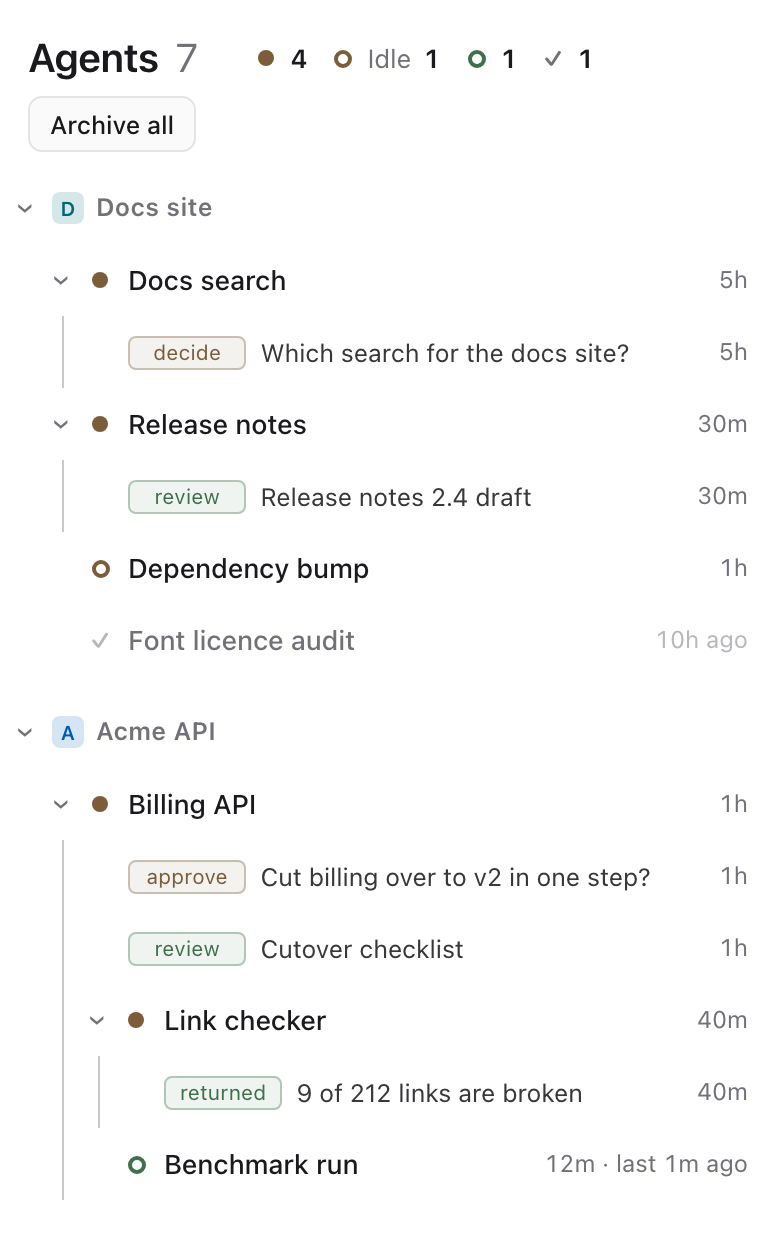
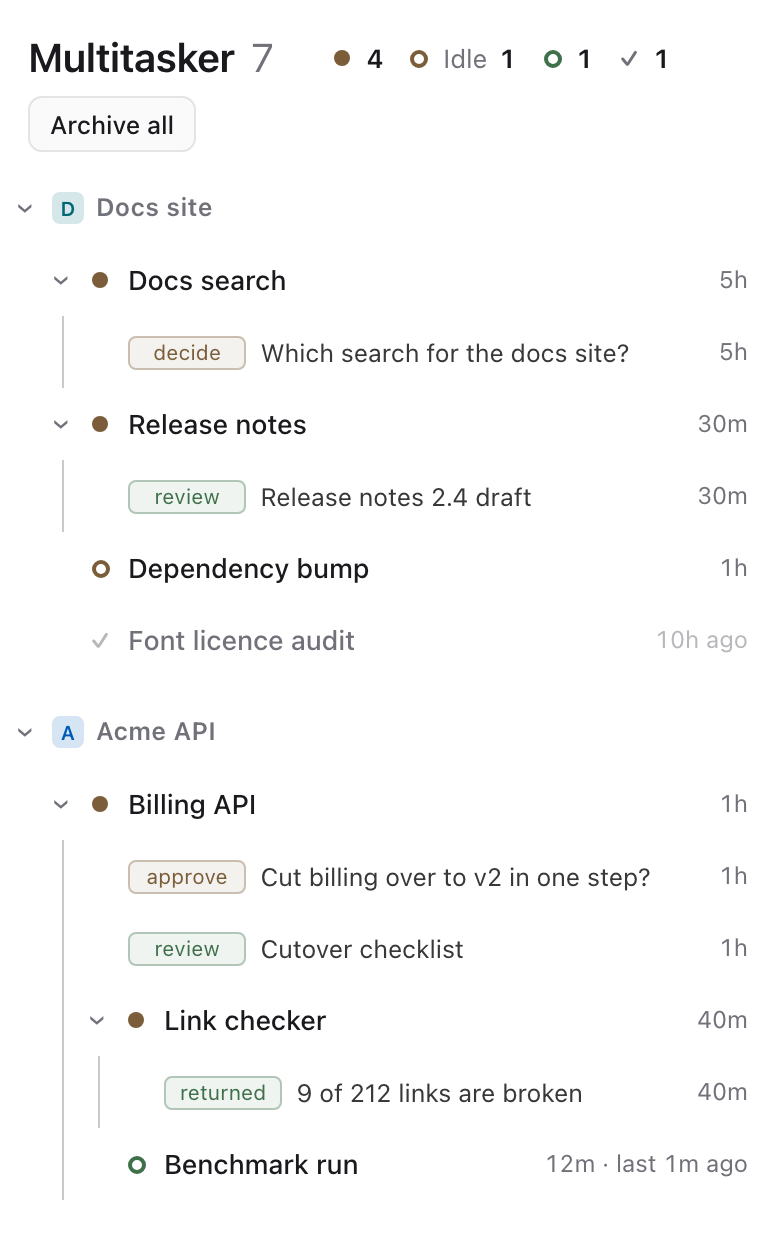
Say session messages are English; fix stale comments and labels; retake screenshots with the Multitasker header

Changed region(s): [[0.0308, 0.0306, 0.4, 0.0613], [0.4308, 0.0306, 0.7385, 0.0613], [0.8308, 0.0306, 0.8615, 0.0613]]

diff --git a/paseo-plugin/client/agents-screen.tsx b/paseo-plugin/client/agents-screen.tsx
@@ -1,4 +1,4 @@
-// The Agents screen and its sidebar row: the one entry to the queue's cards and the agents they come
+// The Multitasker screen and its sidebar row: the one entry to the queue's cards and the agents they come
 // from. Agents come from the plugin's `manager.agents` RPC and cards from the queue's list. While the
 // screen is shown, Paseo's agent directory subscription refetches the agents on every agent update (at
 // most every 1.5 s), with a slow poll behind it; without the subscription the screen polls every 4 s.
@@ -15,7 +15,7 @@ import { AgentsView, type ManagerView } from "./agents-view";
 import { QUEUE_QUERY_KEY, useCardMutations, useClosedCards, useQueueList, useTick } from "./queue-client";
 
 export const AGENTS_SCREEN_ID = "agents";
-/** The inbox's screen before Agents replaced it: links and open tabs that still name it land on Agents. */
+/** The inbox's screen before the Multitasker screen replaced it: links and open tabs that still name it land on Multitasker. */
 export const QUEUE_SCREEN_ID = "queue";
 const AGENTS_QUERY_KEY = ["agent-queue", "manager", "agents"] as const;
 const POLL_MS = 4_000;

diff --git a/paseo-plugin/client/agents-bits.tsx b/paseo-plugin/client/agents-bits.tsx
@@ -37,7 +37,7 @@ export function useManagerStyles(theme: PluginTheme, compact: boolean) {
       rule,
       ...StyleSheet.create({
         page: { flex: 1, minHeight: 0, backgroundColor: c.surface0 },
-        // header: Agents 15 · the three states with their counts (the legend) · Archive all · views
+        // header: Multitasker 15 · the three states with their counts (the legend) · Archive all · views
         head: {
           flexDirection: "row",
           alignItems: "center",
@@ -226,7 +226,7 @@ export function Counts({ nodes, ctx }: { nodes: readonly AgentNode[]; ctx: Manag
   );
 }
 
-/** Agents 15 (and Offline while the polls fail), then each state with its mark and count (the legend), then Mark N done (when any), Archive all, then the views on desktop. */
+/** Multitasker 15 (and Offline while the polls fail), then each state with its mark and count (the legend), then Mark N done (when any), Archive all, then the views on desktop. */
 export function Header(props: {
   ctx: ManagerCtx;
   view: ManagerView;

diff --git a/paseo-plugin/shared/agent-keys.ts b/paseo-plugin/shared/agent-keys.ts
@@ -1,4 +1,4 @@
-// Desktop keyboard triage of the Agents screen, pure so the screen and the tests share it: the order the
+// Desktop keyboard triage of the Multitasker screen, pure so the screen and the tests share it: the order the
 // open cards are visited in (the order the current view lists them) and what a key does. The screen's
 // listener only dispatches the action this returns.
 import { boardColumns } from "./agent-columns.ts";
@@ -87,7 +87,7 @@ export type KeyAction =
   | { type: "session" }
   | { type: "back" };
 
-/** What a key does on the Agents screen, or null when it is not ours. */
+/** What a key does on the Multitasker screen, or null when it is not ours. */
 export function keyAction(event: KeyEvent, context: KeyContext): KeyAction | null {
   if (event.meta || event.ctrl || event.alt || context.typing || context.dialogOpen) return null;
   const { key } = event;

diff --git a/paseo-plugin/client/queue-view.tsx b/paseo-plugin/client/queue-view.tsx
@@ -1,8 +1,8 @@
-// The card components, for the Agents screen. One card is one thing for the user (an ask, a result, a
+// The card components, for the Multitasker screen. One card is one thing for the user (an ask, a result, a
 // receipt, or a host request), with its own You asked → It did → Blocked recall: the card as it sits in
 // an agent's detail (answer, look and close right there), and the card in full (tap its title). Older
 // cards that hold several items keep their earlier layout. UI labels are English; card content is the
-// agents' (Chinese). All colors come from the Paseo theme; color only carries status.
+// agents' own words. All colors come from the Paseo theme; color only carries status.
 import type { PluginTheme } from "@getpaseo/plugin";
 import { Icon, TextInput } from "@getpaseo/plugin/client/ui";
 import { useQuery } from "@tanstack/react-query";

diff --git a/paseo-plugin/shared/rpc.ts b/paseo-plugin/shared/rpc.ts
@@ -1,4 +1,4 @@
-// RPC contracts between the Agents screen and the plugin subprocess.
+// RPC contracts between the Multitasker screen and the plugin subprocess.
 import { defineRpc } from "@getpaseo/plugin";
 import { z } from "zod";
 
@@ -68,7 +68,7 @@ export const AgentMetaSchema = z.object({
   workspace: z.string().nullable().optional(),
 });
 
-/** Where in the Agents screen a close came from (see core CloseOrigin); older clients omit it. */
+/** Where in the Multitasker screen a close came from (see core CloseOrigin); older clients omit it. */
 export const CloseOriginSchema = z.object({
   compact: z.boolean().optional(),
   view: z.enum(["tree", "columns", "list"]).optional(),

diff --git a/paseo-plugin/client/agents-detail.tsx b/paseo-plugin/client/agents-detail.tsx
@@ -178,7 +178,7 @@ export function AgentDetail({ node, ctx, mode, onClose }: { node: AgentNode; ctx
   const top = (
     <View style={d.bar}>
       {mode === "screen" && onClose ? (
-        <Pressable accessibilityRole="button" accessibilityLabel="Back to agents" onPress={onClose} style={pressStyle(s.back, s.hover, s)}>
+        <Pressable accessibilityRole="button" accessibilityLabel="Back to Multitasker" onPress={onClose} style={pressStyle(s.back, s.hover, s)}>
           <Text style={s.backChevron}>‹</Text>
           <Text style={s.backText}>Multitasker</Text>
         </Pressable>

diff --git a/paseo-plugin/shared/cards.ts b/paseo-plugin/shared/cards.ts
@@ -1,7 +1,6 @@
 // Card helpers shared by the card components and the plugin server: the card title, how an ask is
 // answered (its kind and choices), which cards have Discuss, and the messages the queue sends into
-// the session. Those messages are conversation text in the user's voice, not UI: Chinese when the
-// card's own text (what the message quotes) has CJK characters, English otherwise.
+// the session. Those messages are conversation text in the user's voice, not UI: always English.
 // Structural types, so both core cards and RPC cards fit.
 
 export interface ChoiceLike {

diff --git a/paseo-plugin/client/queue-client.ts b/paseo-plugin/client/queue-client.ts
@@ -1,4 +1,4 @@
-// The queue's data and the card actions, for the Agents screen and its sidebar row: the polled card
+// The queue's data and the card actions, for the Multitasker screen and its sidebar row: the polled card
 // list, and Send, Seen, Dismiss, Later, Discuss, permission answers, opening a session, a link or a path,
 // through the plugin RPCs. The screen and the row share one query, so an action shows on both.
 import { openExternalUrl, useRpc, type PluginScreenProps } from "@getpaseo/plugin/client";

diff --git a/paseo-plugin/client/agents-keys.ts b/paseo-plugin/client/agents-keys.ts
@@ -1,4 +1,4 @@
-// The Agents screen's keyboard: one `keydown` listener on the document while the screen is mounted,
+// The Multitasker screen's keyboard: one `keydown` listener on the document while the screen is mounted,
 // desktop only. What a key means is shared/agent-keys; this only reads the focus and hands the action over.
 import { useEffect, useRef } from "react";
 import { isChoiceChipOf, keyAction, type KeyAction, type KeyContext } from "../shared/agent-keys";

diff --git a/core/decisions.ts b/core/decisions.ts
@@ -21,7 +21,7 @@ export interface DecisionRow {
   /** Labels the user picked; empty when none are recorded. */
   picks: string[];
   reply: string | null;
-  /** Where in the Agents screen the close came from; null on a close from before it was recorded. */
+  /** Where in the Multitasker screen the close came from; null on a close from before it was recorded. */
   compact: boolean | null;
   view: "tree" | "columns" | "list" | null;
   batch: boolean;

diff --git a/core/types.ts b/core/types.ts
@@ -144,7 +144,7 @@ export interface ClosingPick {
   recommended: boolean;
 }
 
-/** Where in the Agents screen a close came from; absent on closes from older clients and rows. */
+/** Where in the Multitasker screen a close came from; absent on closes from older clients and rows. */
 export interface CloseOrigin {
   /** The phone layout. */
   compact?: boolean;

diff --git a/paseo-plugin/OVERVIEW.md b/paseo-plugin/OVERVIEW.md
@@ -29,7 +29,7 @@ The plugin passes the session its MCP address and the environment variable `AGEN
 
 - **Stored locally**: one SQLite file, `~/.local/share/agent-queue/queue.db`. `AGENT_QUEUE_DB` in the daemon's environment moves it. It holds cards (what agents wrote in them), dispatch tracks, closed cards with how you closed them, Mark done marks, and a log of when an agent was seen idle. For each session with a card it also keeps the title, working folder, workspace, provider, model and parent session. Failed turns store the error message. Permission requests store the tool's command or paths (up to 2000 characters). A finished child's card stores the last paragraph of its reply. The file is not encrypted.
 - **Read from Paseo**: the agent list, agent timelines (to tell a waiting agent from a finished one), and the provider list (to show provider and model names).
-- **Sent into sessions**: Send, Discuss and Dismiss write a message into the card's session, handed to a running turn without interrupting it. Those messages, and everything agents put into the queue tools and read back from them, go to each session's agent provider like the rest of the conversation. Messages are written in Chinese when the card's own text has Chinese characters, English otherwise.
+- **Sent into sessions**: Send, Discuss and Dismiss write a message into the card's session, handed to a running turn without interrupting it. Those messages, and everything agents put into the queue tools and read back from them, go to each session's agent provider like the rest of the conversation. Messages are written in English.
 - **Permissions**: the plugin answers a permission request only when you click a choice on its card. It never approves on its own.
 - **Result previews**: a result card can name a file. When such a card renders, the plugin reads that file and sends it to the client so a phone can show it. It reads only files under your home directory with a text extension (md, txt, json, jsonl, csv, tsv, log, yaml, yml, toml, py, ts, js, tex, bib) or an image (png, jpg, jpeg, gif, webp), up to 2 MB, and shows the first 80 lines, each cut at 400 characters. It skips hidden files and folders, and any path with a part that looks like a secret (`.env`, secret, credential, token, password, `api-key`, `service-account`, `id_rsa`, `id_ed25519`, or a `.pem`, `.key`, `.p12`, `.pfx` or `.kdbx` file). Because the path comes from what an agent wrote on the card, a card can make the plugin load any file that passes those rules.
 - **Network**: the plugin makes no outbound requests of its own. Its MCP server listens only on 127.0.0.1, on a random port, and each session has its own address and token.
